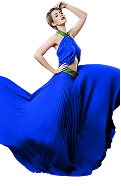
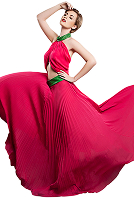
uptate button

diff --git a/src/features/home/Hero.jsx b/src/features/home/Hero.jsx
@@ -1,17 +1,38 @@
-import { ArrowRight, PlayCircle } from "lucide-react";
+import { ArrowRight} from "lucide-react";
 import { ROUTES } from "@/constants/routes";
 import Button from "@/shared/buttons/Button";
 import BeforeAfterCard from "@/shared/cards/BeforeAfterCard";
 import OrganicShape from "@/shared/decorations/OrganicShape";
-import HeroStats from "./HeroStats";
 import styles from "./Hero.module.css";
+
+const STATS = [
+  {
+    icon: "/assets/icons/image-icon.png",
+    value: "50,000+",
+    label: "Image Edited Daily",
+  },
+  {
+    icon: "/assets/icons/users-icon.png",
+    value: "42,000+",
+    label: "Happy Clients",
+  },
+  {
+    icon: "/assets/icons/satisfaction-icon.png",
+    value: "98%",
+    label: "Client Satisfaction",
+  },
+  {
+    icon: "/assets/icons/turnaround-icon.png",
+    value: "6-24h",
+    label: "Average Turnaround",
+  },
+];
 
 const Hero = () => {
   return (
-    <>
+    <div className={styles.heroWrapper}>
       <section className={styles.hero}>
-        <OrganicShape position="bottom-left" className={styles.heroShapeLeft} />
-        <OrganicShape position="top-right" className={styles.heroShapeRight} />
+      <OrganicShape position="bottom-left" width={260} color="#e3eafe" zIndex={0} flipY />
 
         <div className={styles.container}>
           <div className={styles.content}>
@@ -39,7 +60,7 @@ const Hero = () => {
               <Button
                 to={ROUTES.HOW_IT_WORKS}
                 variant="outline"
-                icon={<PlayCircle size={16} />}
+                icon={<ArrowRight size={16} />}
               >
                 How it works
               </Button>
@@ -67,8 +88,23 @@ const Hero = () => {
         </div>
       </section>
 
-      <HeroStats />
-    </>
+      <div className={styles.statsBar}>
+        <div className={styles.statsContainer}>
+          {STATS.map(({ icon, value, label }, i) => (
+            <div className={styles.stat} key={i}>
+              <div className={styles.iconCircle}>
+                <img src={icon} alt={label} className={styles.statIcon} />
+              </div>
+              <div className={styles.statText}>
+                <span className={styles.statValue}>{value}</span>
+                <span className={styles.statLabel}>{label}</span>
+              </div>
+              {i < STATS.length - 1 && <div className={styles.divider} />}
+            </div>
+          ))}
+        </div>
+      </div>
+    </div>
   );
 };
 

diff --git a/src/features/home/Hero.module.css b/src/features/home/Hero.module.css
@@ -1,3 +1,9 @@
+/* Hero + Stats Wrapper */
+.heroWrapper {
+  position: relative;
+}
+
+/* Hero Section */
 .hero {
   position: relative;
   overflow: hidden;
@@ -131,5 +137,94 @@
   .heroShapeLeft,
   .heroShapeRight {
     width: 70px !important;
+  }
+}
+
+/* Hero Stats Section */
+.statsBar {
+  background-color: #011045;
+  max-width: 1285px;
+  width: calc(100% - 160px);
+  height: 218px;
+  margin: -40px auto 60px;
+  border-radius: 16px;
+  position: relative;
+  z-index: 10;
+  display: flex;
+  align-items: center;
+}
+
+.statsContainer {
+  width: 100%;
+  display: grid;
+  grid-template-columns: repeat(4, 1fr);
+  align-items: center;
+  padding: 0 48px;
+}
+
+.stat {
+  display: flex;
+  align-items: center;
+  justify-content: center;
+  gap: 18px;
+  position: relative;
+  min-height: 120px;
+}
+
+.divider {
+  position: absolute;
+  right: 0;
+  top: 50%;
+  transform: translateY(-50%);
+  width: 1px;
+  height: 56px;
+  background: rgba(255, 255, 255, 0.15);
+}
+
+.iconCircle {
+  width: 60px;
+  height: 60px;
+  border-radius: 50%;
+  display: flex;
+  align-items: center;
+  justify-content: center;
+  background: linear-gradient(135deg, #2563eb, #1d4ed8);
+}
+
+.statIcon {
+  width: 26px;
+  height: 26px;
+}
+
+.statText {
+  display: flex;
+  flex-direction: column;
+}
+
+.statValue {
+  font-size: 22px;
+  font-weight: 700;
+  color: var(--color-white);
+  line-height: 1.2;
+}
+
+.statLabel {
+  font-size: 13px;
+  color: rgba(255, 255, 255, 0.7);
+}
+
+@media (max-width: 992px) {
+  .statsContainer {
+    grid-template-columns: repeat(2, 1fr);
+    gap: 32px;
+  }
+  .divider {
+    display: none;
+  }
+}
+
+@media (max-width: 480px) {
+  .statsContainer {
+    grid-template-columns: 1fr;
   }
 }

diff --git a/src/shared/buttons/Button.module.css b/src/shared/buttons/Button.module.css
@@ -3,45 +3,38 @@
   align-items: center;
   justify-content: center;
   gap: 8px;
-  padding: 12px 22px;
-  border-radius: 5px;
+  padding: 14px 24px;
+  border-radius: 10px;
   font-size: 15px;
-  font-weight: 600;
+  font-weight: 700;
   white-space: nowrap;
   transition: all 0.2s ease;
 }
-
 .primary {
   background-color: var(--color-primary);
   color: var(--color-white);
 }
-
 .primary:hover {
   background-color: var(--color-primary-dark);
   color: var(--color-white);
 }
-
 .outline {
   background-color: transparent;
   color: var(--color-primary);
   border: 1.5px solid var(--color-primary);
 }
-
 .outline:hover {
   background-color: var(--color-primary);
   color: var(--color-white);
 }
-
 .text {
   background-color: transparent;
   color: var(--color-white);
   padding: 0;
 }
-
 .fullWidth {
   width: 100%;
 }
-
 .icon {
   display: inline-flex;
   align-items: center;
@@ -50,7 +43,6 @@
   background-color: var(--color-white);
   color: var(--color-primary);
 }
-
 .light:hover {
   background-color: var(--color-bg-soft);
 }

diff --git a/src/app/pages/ServiceDetails.jsx b/src/app/pages/ServiceDetails.jsx
@@ -1,5 +1,5 @@
 import { useParams } from "react-router-dom";
-import { ArrowRight, PlayCircle } from "lucide-react";
+import { ArrowRight} from "lucide-react";
 import { SERVICES_LIST } from "@/constants/services";
 import { ROUTES } from "@/constants/routes";
 import Button from "@/shared/buttons/Button";
@@ -24,7 +24,8 @@ const ServiceDetails = () => {
   return (
     <main>
       <section className={styles.hero}>
-        <OrganicShape position="bottom-left" />
+        
+      <OrganicShape position="bottom-left" width={160} color="#e3eafe" zIndex={0} flipY />
 
         <div className={styles.heroContainer}>
           <div className={styles.heroContent}>
@@ -43,7 +44,7 @@ const ServiceDetails = () => {
               <Button
                 to={ROUTES.HOW_IT_WORKS}
                 variant="outline"
-                icon={<PlayCircle size={16} />}
+                icon={<ArrowRight size={16} />}
               >
                 How it works
               </Button>

diff --git a/src/features/our-services/OurServicesHero.jsx b/src/features/our-services/OurServicesHero.jsx
@@ -1,4 +1,4 @@
-import { ArrowRight, PlayCircle } from "lucide-react";
+import { ArrowRight} from "lucide-react";
 import { ROUTES } from "@/constants/routes";
 import Button from "@/shared/buttons/Button";
 import OrganicShape from "@/shared/decorations/OrganicShape";
@@ -31,7 +31,8 @@ const HERO_THUMBNAILS = [
 const OurServicesHero = () => {
   return (
     <section className={styles.hero}>
-      <OrganicShape position="top-right" />
+
+      <OrganicShape position="bottom-left" width={200} color="#e3eafe" zIndex={0} flipY />
 
       <div className={styles.container}>
         <h1 className={styles.heading}>
@@ -57,7 +58,7 @@ const OurServicesHero = () => {
           <Button
             to={ROUTES.HOW_IT_WORKS}
             variant="outline"
-            icon={<PlayCircle size={16} />}
+            icon={<ArrowRight size={16} />}
           >
             How it works
           </Button>

diff --git a/src/shared/filter-tabs/FilterTabs.module.css b/src/shared/filter-tabs/FilterTabs.module.css
@@ -2,18 +2,18 @@
   display: flex;
   flex-wrap: wrap;
   justify-content: center;
-  gap: 12px;
+  gap: 6px;
   margin-bottom: 40px;
 }
 
 .tab {
-  font-size: 14px;
-  font-weight: 600;
-  color: var(--color-text-dark);
+  font-size: 18px;
+  font-weight: 500;
+  color: var(--color-primary);
   background-color: var(--color-white);
-  border: 1px solid var(--color-border);
+  border: 1px solid var(--color-primary);
   padding: 10px 20px;
-  border-radius: 30px;
+  border-radius: 8px;
   transition: all 0.2s ease;
 }
 
@@ -26,4 +26,7 @@
   background-color: var(--color-primary);
   color: var(--color-white);
   border-color: var(--color-primary);
+}
+.tabActive:hover{
+  color: var(--color-white);
 }

diff --git a/src/shared/page-header/PageHeader.jsx b/src/shared/page-header/PageHeader.jsx
@@ -4,8 +4,8 @@ import styles from "./PageHeader.module.css";
 const PageHeader = ({ eyebrow, title, subtext }) => {
   return (
     <section className={styles.header}>
-      <OrganicShape position="bottom-left" />
-      <OrganicShape position="top-right" />
+      
+      <OrganicShape position="bottom-left" width={120} color="#e3eafe" zIndex={0} flipY />
 
       <div className={styles.container}>
         {eyebrow && <span className={styles.eyebrow}>{eyebrow}</span>}

diff --git a/src/features/auth/LoginForm.module.css b/src/features/auth/LoginForm.module.css
@@ -37,7 +37,7 @@
 
 .field input {
   padding: 14px;
-  border: 1px solid var(--color-border);
+  border: 1px solid var(--color-primary);
   border-radius: 8px;
   font-size: 14px;
   color: var(--color-text-dark);
@@ -46,7 +46,7 @@
 
 .field input:focus {
   outline: none;
-  border-color: var(--color-primary);
+  border-color: var(--color-primary-dark);
 }
 
 .passwordWrapper {

diff --git a/src/features/auth/RegisterForm.module.css b/src/features/auth/RegisterForm.module.css
@@ -37,7 +37,7 @@
 
 .field input {
   padding: 14px;
-  border: 1px solid var(--color-border);
+  border: 1px solid var(--color-primary);
   border-radius: 8px;
   font-size: 14px;
   color: var(--color-text-dark);
@@ -46,7 +46,7 @@
 
 .field input:focus {
   outline: none;
-  border-color: var(--color-primary);
+  border-color: var(--color-primary-dark);
 }
 
 .passwordWrapper {
